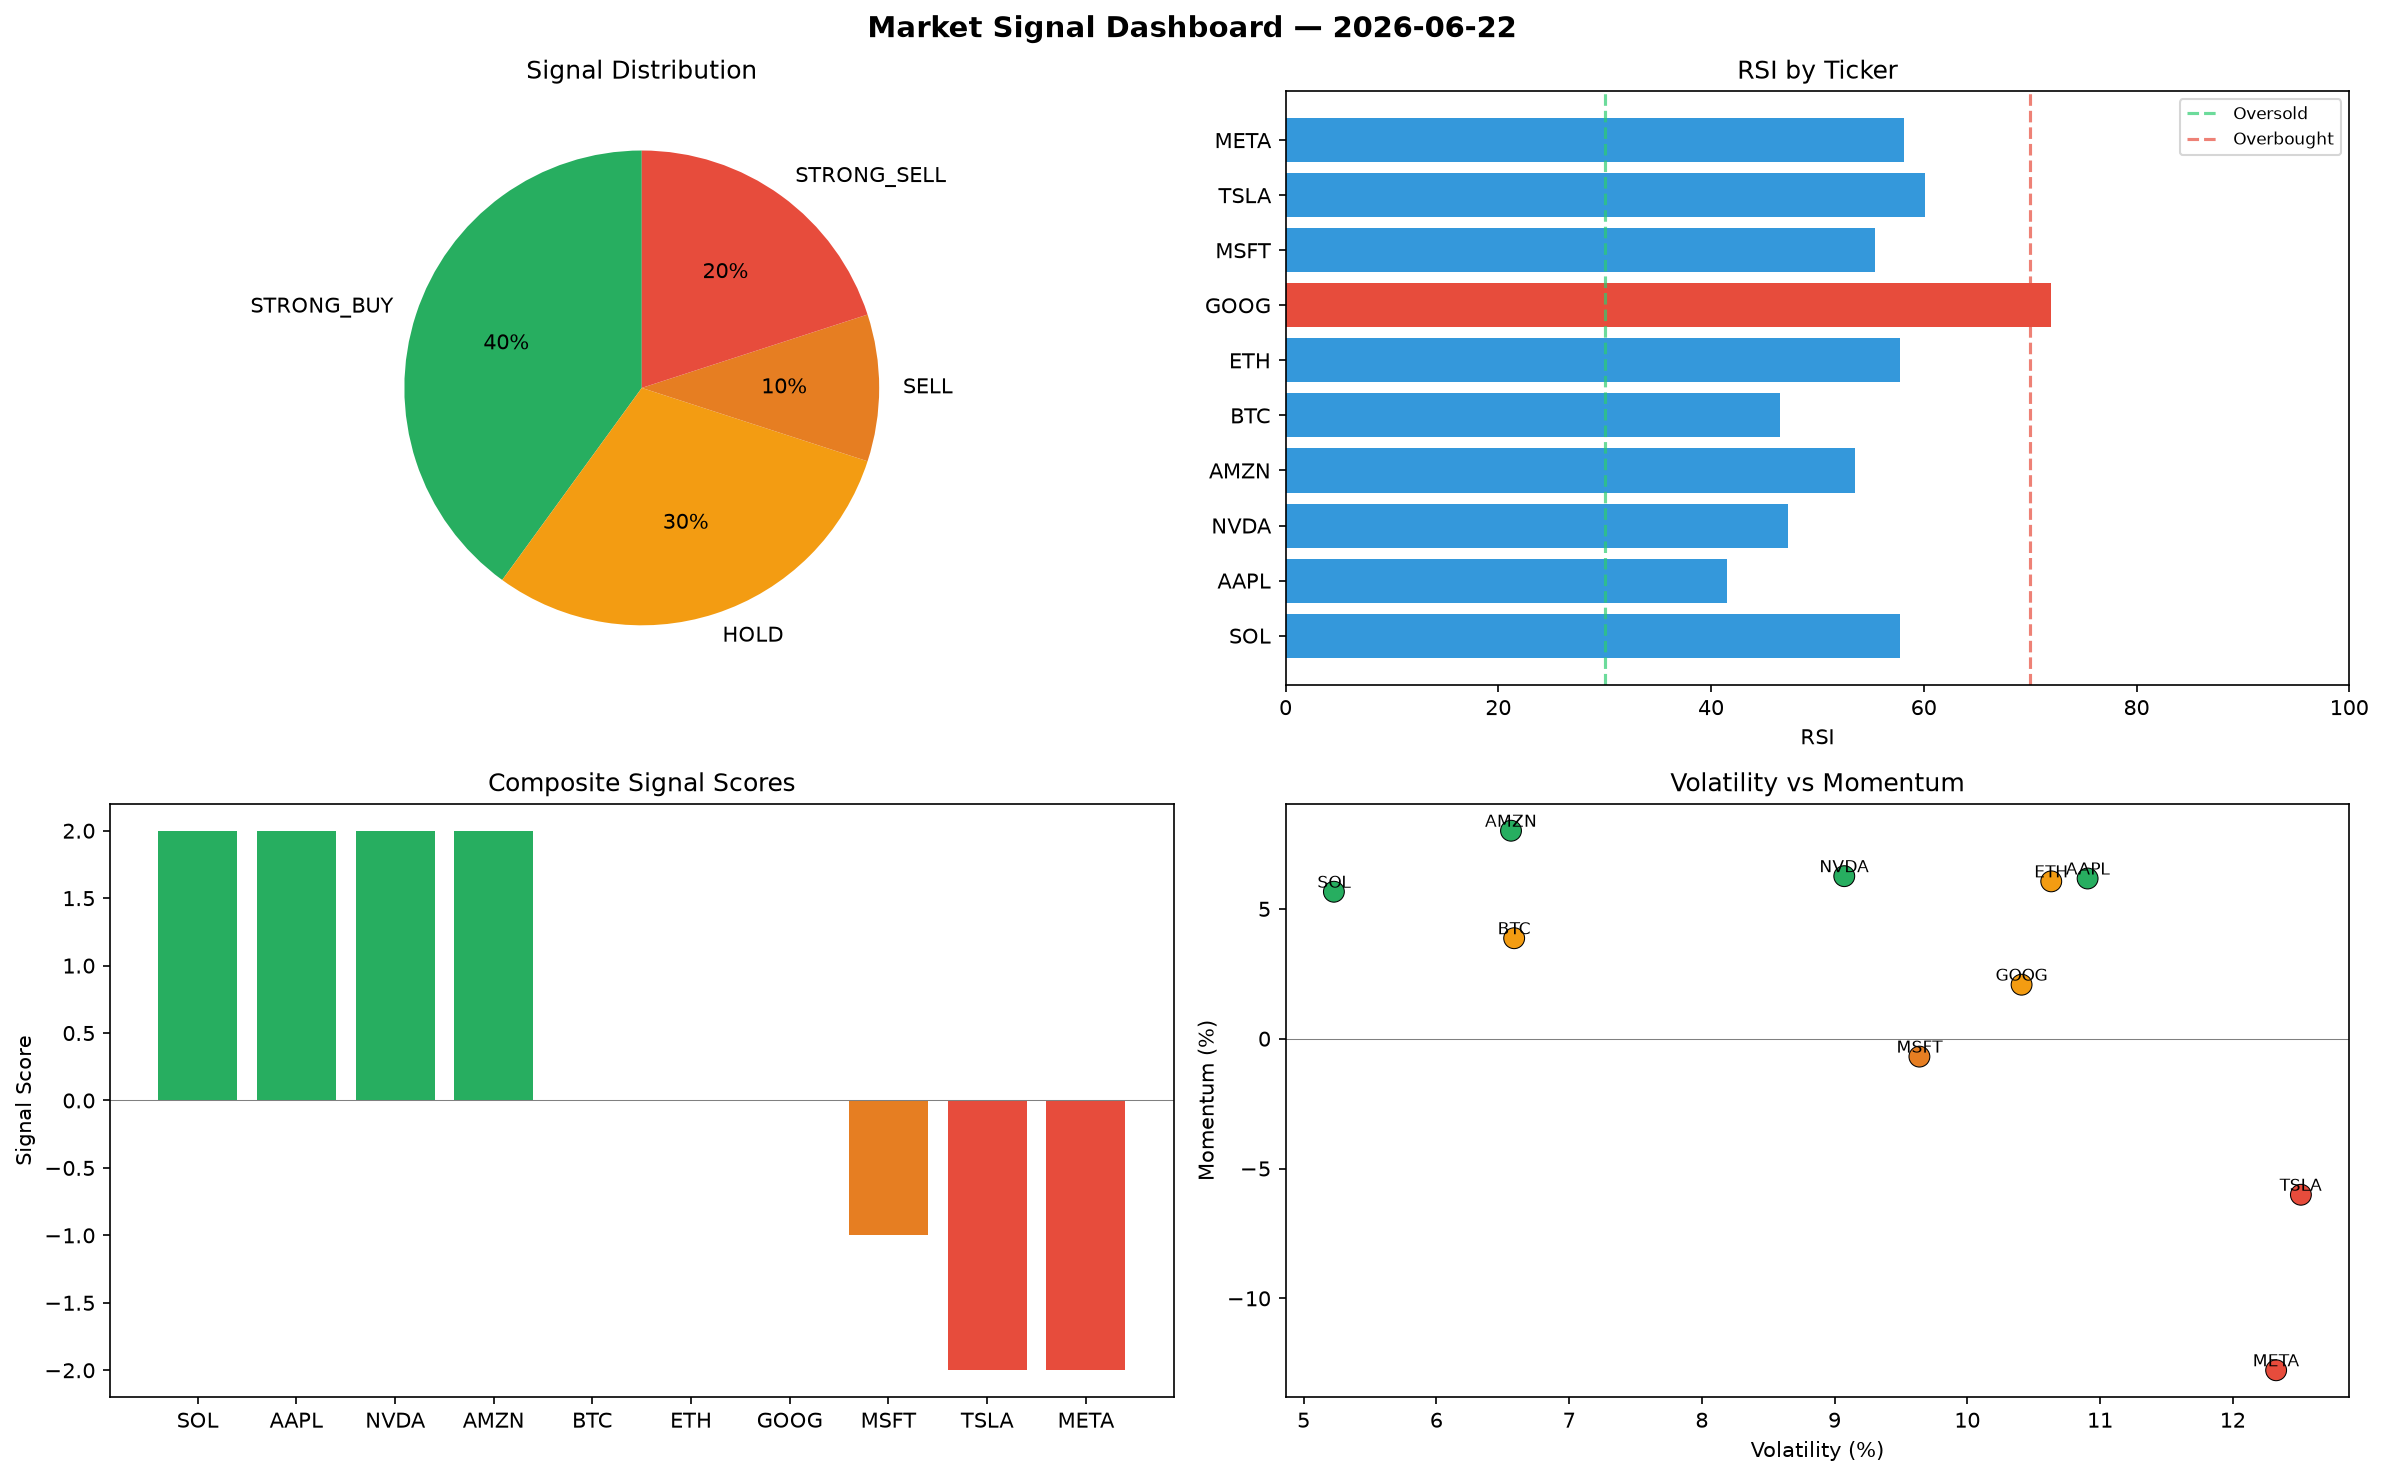
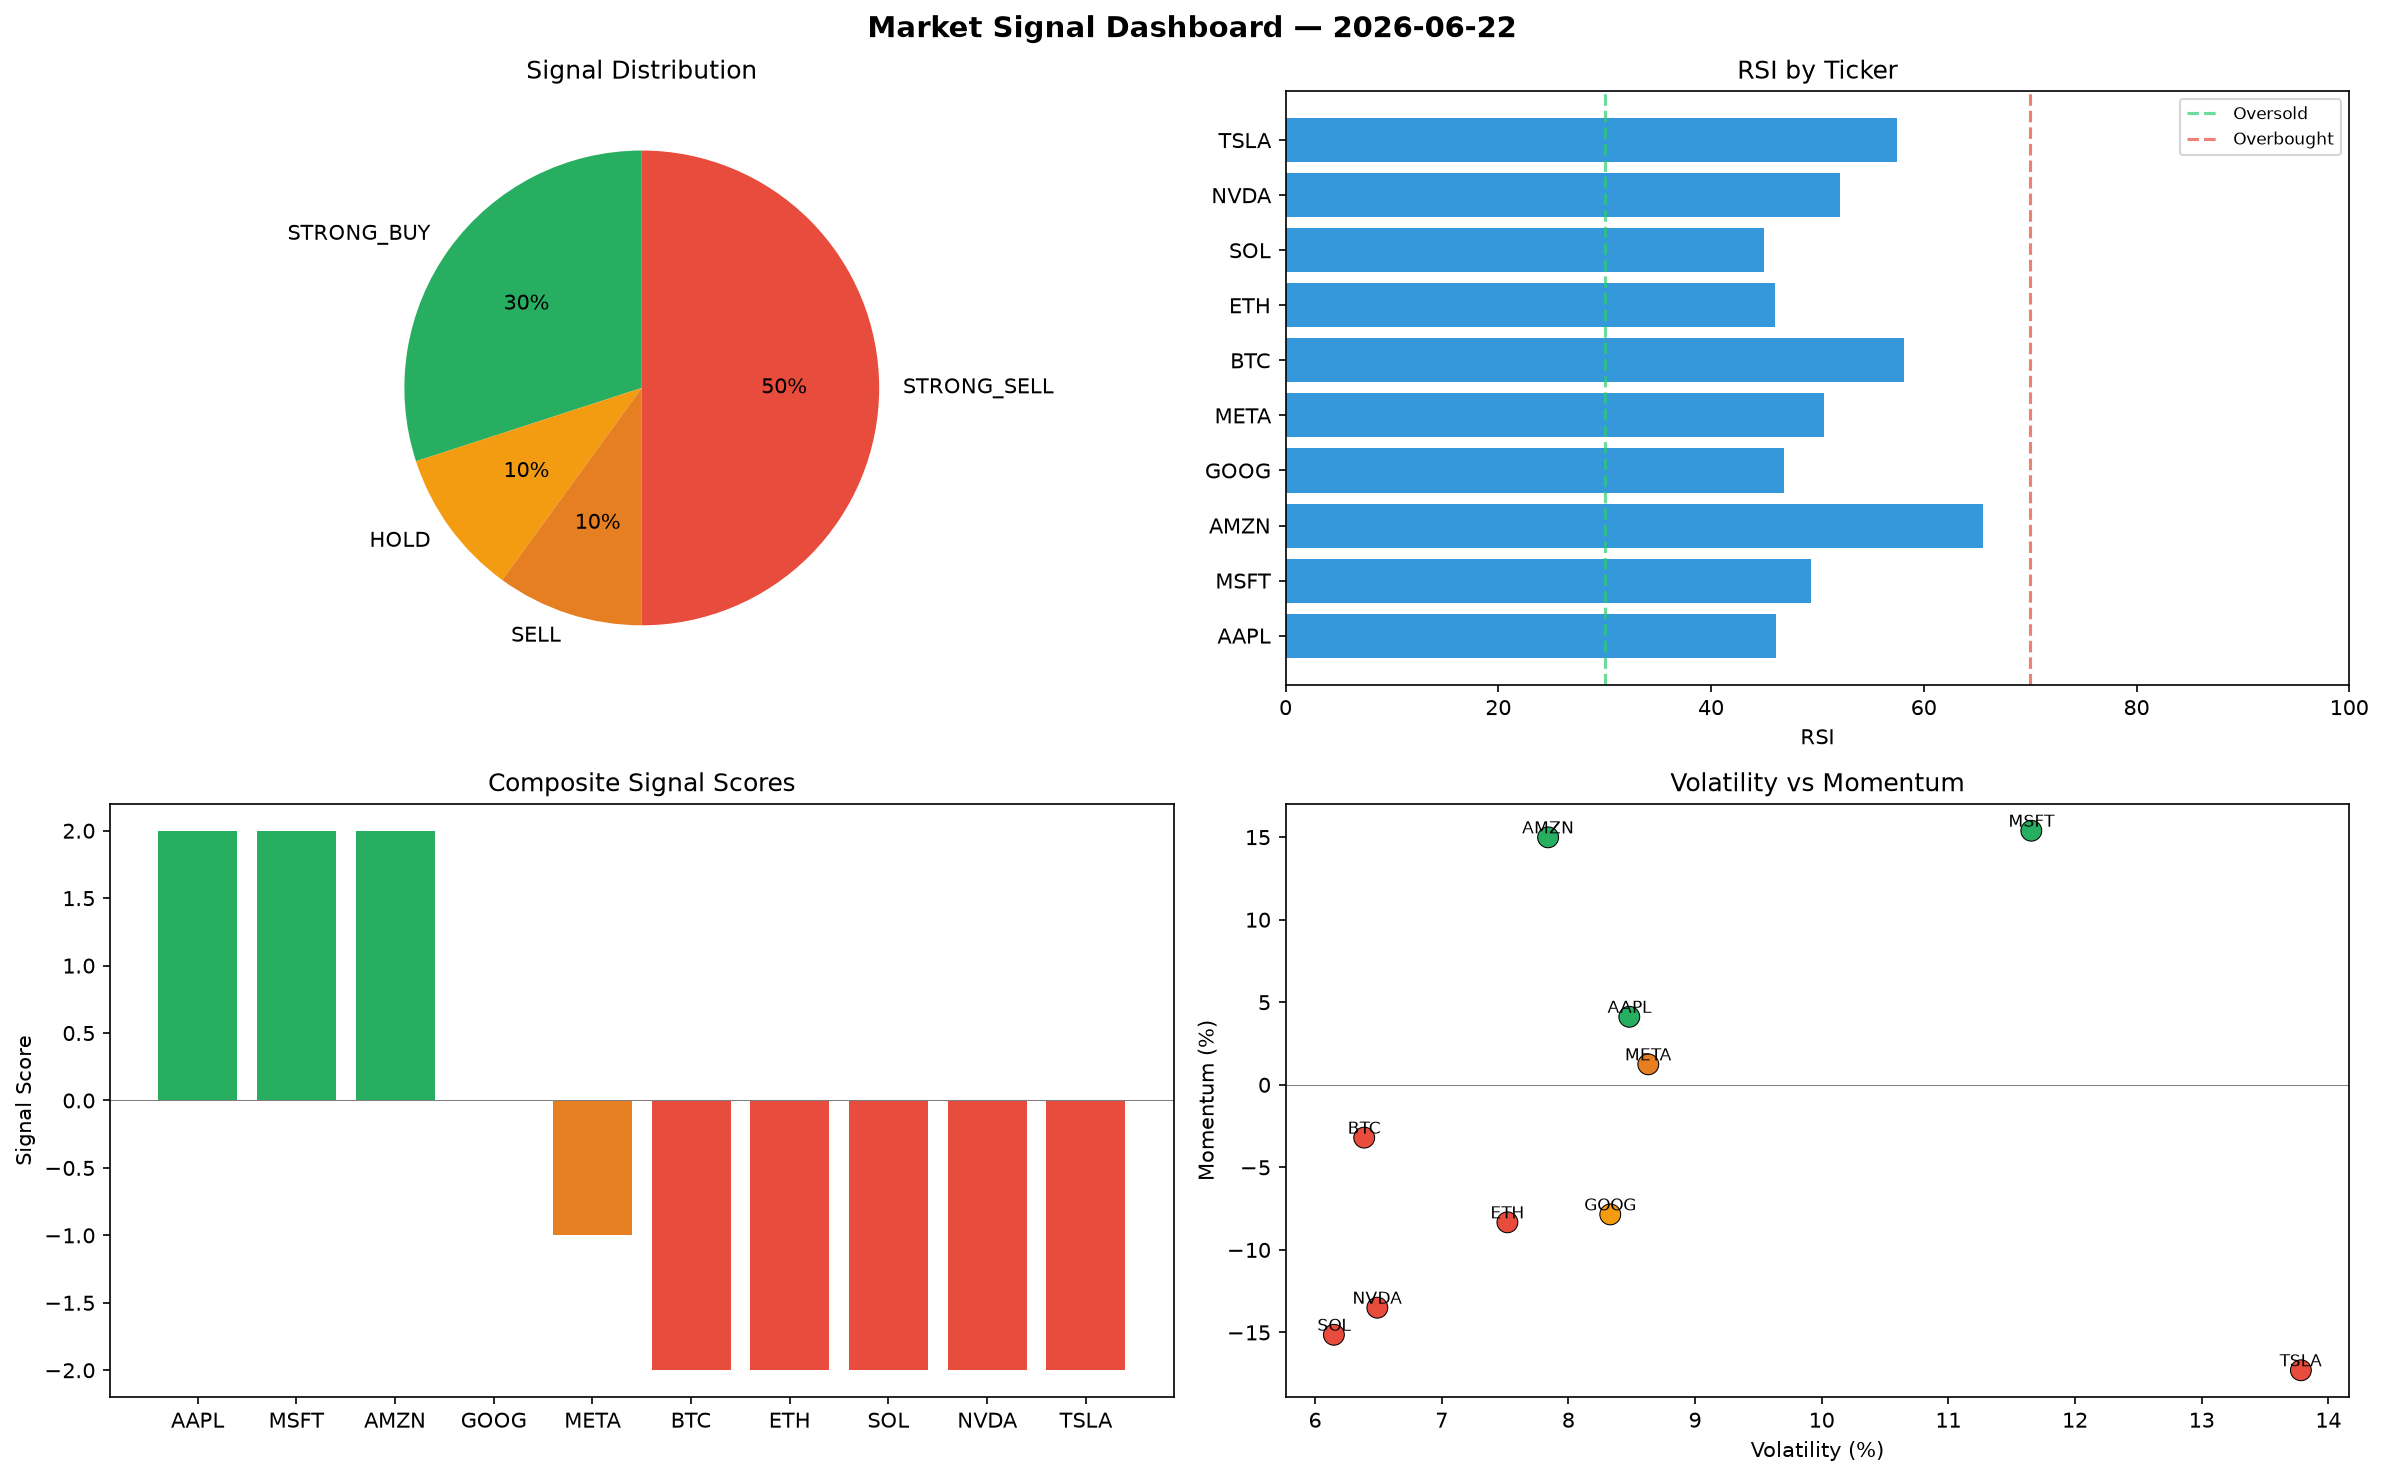
automated-bots: market signals 2026-06-22T22:19

diff --git a/logs/2026-06-22.md b/logs/2026-06-22.md
@@ -1,6 +1,6 @@
 # Market Signal Report — 2026-06-22
 
-**Run ID:** `9a70c1022e` | **Buy:** 4 | **Sell:** 3 | **Hold:** 3
+**Run ID:** `eadd38b67c` | **Buy:** 3 | **Sell:** 6 | **Hold:** 1
 
 ![Dashboard](2026-06-22_dashboard.png)
 
@@ -8,28 +8,28 @@
 
 | Ticker | Price | Signal | Score | RSI | Momentum | Confidence |
 |--------|-------|--------|-------|-----|----------|------------|
-| SOL | $4959.61 | **STRONG_BUY** | 2 | 57.76 | 0.0566 | 0.5 |
-| AAPL | $3853.21 | **STRONG_BUY** | 2 | 41.5 | 0.0617 | 0.5 |
-| NVDA | $1559.83 | **STRONG_BUY** | 2 | 47.26 | 0.0626 | 0.5 |
-| AMZN | $2724.09 | **STRONG_BUY** | 2 | 53.52 | 0.0801 | 0.5 |
-| BTC | $2461.41 | **HOLD** | 0 | 46.51 | 0.0387 | 0.0 |
-| ETH | $547.8 | **HOLD** | 0 | 57.77 | 0.0606 | 0.0 |
-| GOOG | $3670.1 | **HOLD** | 0 | 71.98 | 0.0208 | 0.0 |
-| MSFT | $1314.81 | **SELL** | -1 | 55.39 | -0.0069 | 0.25 |
-| TSLA | $2662.91 | **STRONG_SELL** | -2 | 60.07 | -0.0601 | 0.5 |
-| META | $2168.15 | **STRONG_SELL** | -2 | 58.1 | -0.1277 | 0.5 |
+| AAPL | $2464.35 | **STRONG_BUY** | 2 | 46.12 | 0.0412 | 0.5 |
+| MSFT | $3047.4 | **STRONG_BUY** | 2 | 49.36 | 0.1539 | 0.5 |
+| AMZN | $4206.78 | **STRONG_BUY** | 2 | 65.56 | 0.1499 | 0.5 |
+| GOOG | $848.52 | **HOLD** | 0 | 46.84 | -0.0785 | 0.0 |
+| META | $4310.12 | **SELL** | -1 | 50.65 | 0.0124 | 0.25 |
+| BTC | $3180.88 | **STRONG_SELL** | -2 | 58.16 | -0.032 | 0.5 |
+| ETH | $4035.46 | **STRONG_SELL** | -2 | 46.02 | -0.0833 | 0.5 |
+| SOL | $1250.65 | **STRONG_SELL** | -2 | 45.01 | -0.1514 | 0.5 |
+| NVDA | $1112.29 | **STRONG_SELL** | -2 | 52.17 | -0.135 | 0.5 |
+| TSLA | $3721.33 | **STRONG_SELL** | -2 | 57.44 | -0.1729 | 0.5 |
 
 ## Delta vs Yesterday
 
 | Ticker | Today | Yesterday | Price Change | Signal Changed |
 |--------|-------|-----------|-------------|----------------|
-| SOL | STRONG_BUY | STRONG_BUY | 📈 1141.73% | — |
-| AAPL | STRONG_BUY | HOLD | 📈 957.93% | ⚠ YES |
-| NVDA | STRONG_BUY | HOLD | 📉 -66.97% | ⚠ YES |
-| AMZN | STRONG_BUY | STRONG_SELL | 📈 278.54% | ⚠ YES |
-| BTC | HOLD | STRONG_SELL | 📉 -45.47% | ⚠ YES |
-| ETH | HOLD | BUY | 📉 -24.11% | ⚠ YES |
-| GOOG | HOLD | STRONG_BUY | 📈 92.34% | ⚠ YES |
-| MSFT | SELL | STRONG_SELL | 📉 -19.25% | ⚠ YES |
-| TSLA | STRONG_SELL | STRONG_SELL | 📈 104.94% | — |
-| META | STRONG_SELL | BUY | 📈 125.73% | ⚠ YES |
+| AAPL | STRONG_BUY | HOLD | 📈 576.61% | ⚠ YES |
+| MSFT | STRONG_BUY | STRONG_SELL | 📈 87.15% | ⚠ YES |
+| AMZN | STRONG_BUY | STRONG_SELL | 📈 484.58% | ⚠ YES |
+| GOOG | HOLD | STRONG_BUY | 📉 -55.53% | ⚠ YES |
+| META | SELL | BUY | 📈 348.73% | ⚠ YES |
+| BTC | STRONG_SELL | STRONG_SELL | 📉 -29.54% | — |
+| ETH | STRONG_SELL | BUY | 📈 459.06% | ⚠ YES |
+| SOL | STRONG_SELL | STRONG_BUY | 📈 213.12% | ⚠ YES |
+| NVDA | STRONG_SELL | HOLD | 📉 -76.45% | ⚠ YES |
+| TSLA | STRONG_SELL | STRONG_SELL | 📈 186.39% | — |
